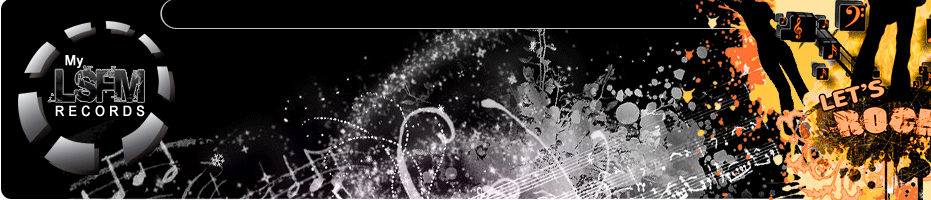
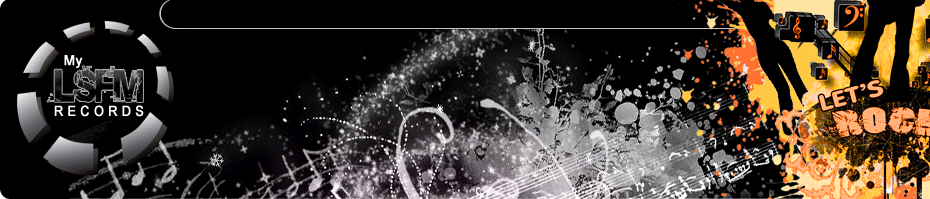
tpl_mylsfm: fixups #9

diff --git a/htdocs/templates/mylsfm/index.php b/htdocs/templates/mylsfm/index.php
@@ -33,13 +33,13 @@ $imgdir  = $tmpldir.'/images';
 
 #nav a {
 	display: block;
-    width:10em;
+	width:10em;
 }
 
 #nav li {
 	float: left;
-	width: 5em;
-    padding: 0.3em;
+	width: 4em;
+	padding: 0.3em;
 }
 
 #nav li ul {
@@ -95,8 +95,8 @@ DIV.javamenu	.menu	ul	li
 #mylsfm_fleck
 {
     position: absolute; 
-    top: 7; 
-    left: 658; 
+    top: 3; 
+    left: 651;
     width: 457; 
     height: 397; 
     background-image:url(<?php echo $imgdir ?>/fleck.png);
@@ -106,7 +106,7 @@ DIV.javamenu	.menu	ul	li
 #mylsfm_headbar
 {
     z-index: 8; 
-    height: 200; 
+    height: 199; 
     width: 890; 
     background-image: url("<?php echo $imgdir ?>/headbar1.png");
 }
